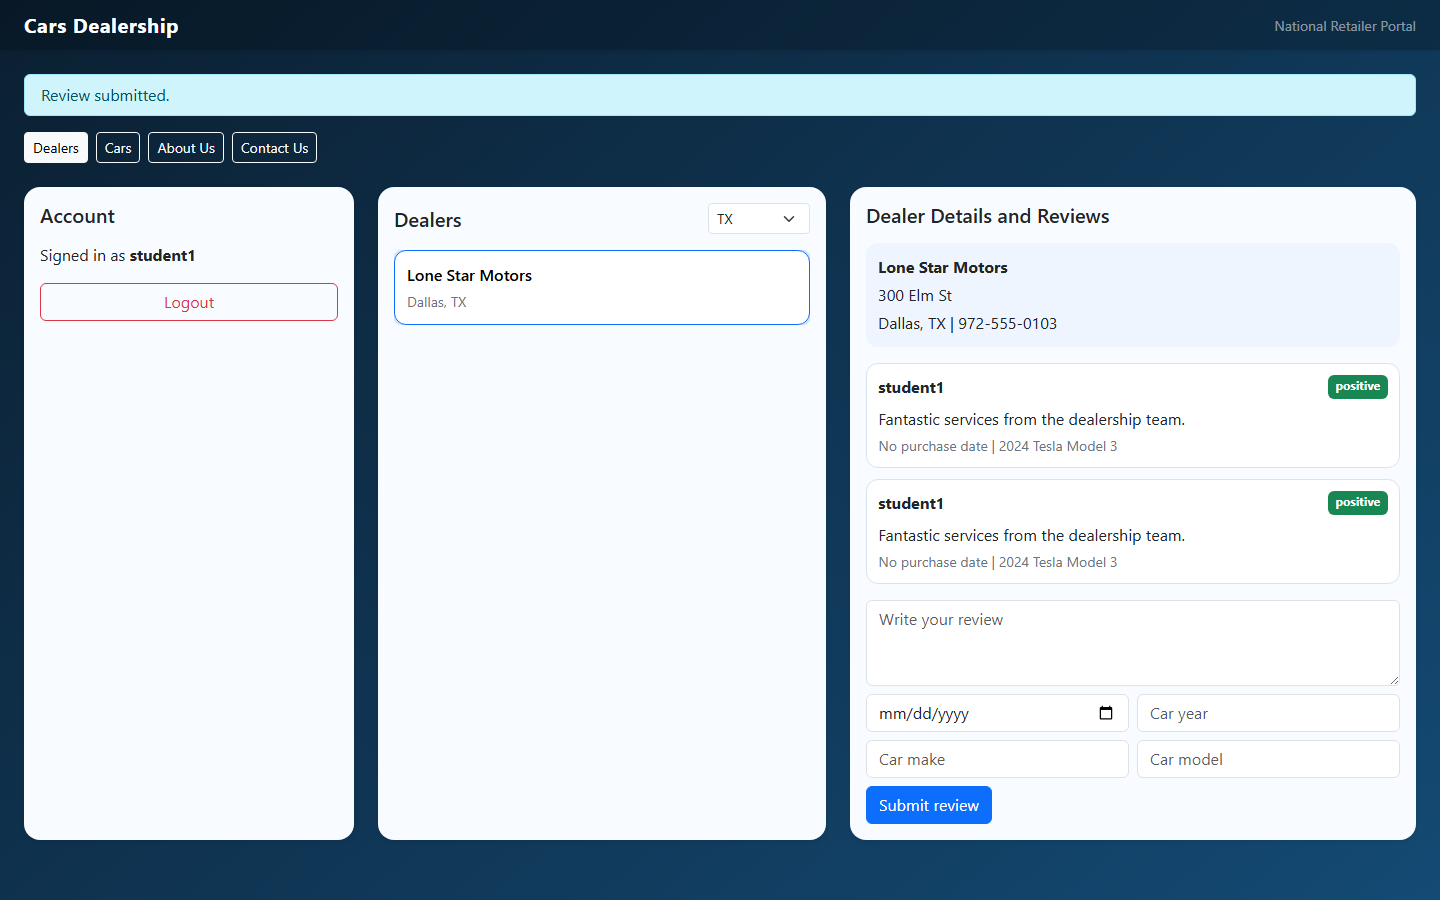
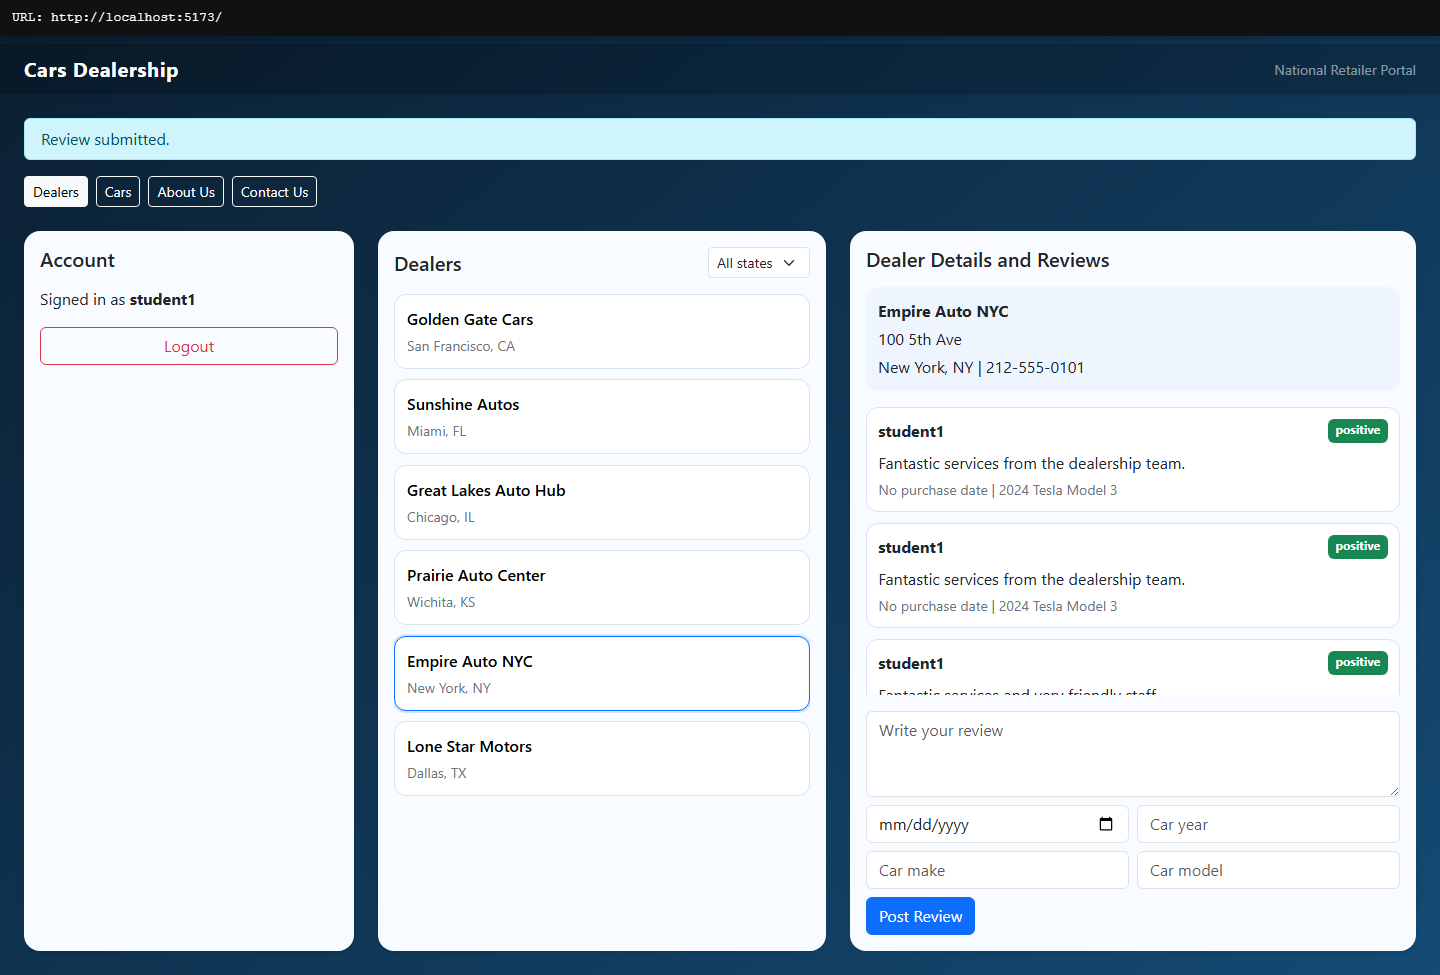
Add rubric-aligned screenshots and sentiment GET endpoint

diff --git a/scripts/capture_rubric_screenshots.js b/scripts/capture_rubric_screenshots.js
@@ -1,0 +1,248 @@
+const fs = require('fs');
+const { chromium } = require('playwright');
+
+function escapeHtml(text) {
+  return text
+    .replace(/&/g, '&amp;')
+    .replace(/</g, '&lt;')
+    .replace(/>/g, '&gt;');
+}
+
+async function addUrlOverlay(page) {
+  const url = page.url();
+  await page.evaluate((u) => {
+    let bar = document.getElementById('__url_overlay__');
+    if (!bar) {
+      bar = document.createElement('div');
+      bar.id = '__url_overlay__';
+      bar.style.position = 'fixed';
+      bar.style.top = '0';
+      bar.style.left = '0';
+      bar.style.right = '0';
+      bar.style.zIndex = '2147483647';
+      bar.style.background = '#111';
+      bar.style.color = '#fff';
+      bar.style.fontFamily = 'monospace';
+      bar.style.fontSize = '13px';
+      bar.style.padding = '8px 12px';
+      bar.style.boxShadow = '0 2px 8px rgba(0,0,0,0.3)';
+      document.body.appendChild(bar);
+      document.body.style.paddingTop = '44px';
+    }
+    bar.textContent = `URL: ${u}`;
+  }, url);
+}
+
+async function snap(page, name, withUrl = true) {
+  if (withUrl) {
+    await addUrlOverlay(page);
+  }
+  await page.screenshot({ path: name, fullPage: true });
+  console.log(`saved ${name}`);
+}
+
+async function loginApp(page) {
+  await page.goto('http://localhost:5173', { waitUntil: 'networkidle' });
+  const signedIn = await page.locator('text=Signed in as').count();
+  if (!signedIn) {
+    await page.fill('input[placeholder="Username"]', 'student1');
+    await page.fill('input[placeholder="Password"]', 'Password123!');
+    await page.locator('form button[type="submit"]').first().click();
+    await page.waitForTimeout(1000);
+  }
+}
+
+async function ensureDealerSelected(page, dealerText = 'Empire Auto NYC') {
+  const btn = page.locator('button.dealer-card', { hasText: dealerText }).first();
+  if (await btn.count()) {
+    await btn.click();
+  } else {
+    const first = page.locator('button.dealer-card').first();
+    if (await first.count()) {
+      await first.click();
+    }
+  }
+  await page.waitForTimeout(1200);
+}
+
+async function main() {
+  const browser = await chromium.launch({ headless: true });
+  const context = await browser.newContext({ viewport: { width: 1440, height: 900 } });
+
+  // Task 2: django_server.png from log text
+  const djangoText = fs.existsSync('django_server') ? fs.readFileSync('django_server', 'utf8') : 'django_server file not found';
+  const term = await context.newPage();
+  await term.setContent(`
+    <html><body style="margin:0;background:#111;color:#e6e6e6;font-family:Consolas,monospace;">
+      <div style="padding:16px;background:#1f1f1f;color:#9cdcfe;font-size:18px;">Django Server Running Output</div>
+      <pre style="white-space:pre-wrap;padding:16px;line-height:1.35;font-size:13px;">${escapeHtml(djangoText)}</pre>
+    </body></html>
+  `);
+  await snap(term, 'django_server.png', false);
+
+  // App screenshots
+  const app = await context.newPage();
+  await app.goto('http://localhost:5173', { waitUntil: 'networkidle' });
+
+  // Task 17: before login
+  await snap(app, 'get_dealers.png', true);
+
+  // Task 3: about_us
+  await app.click('button:has-text("About Us")');
+  await app.waitForTimeout(500);
+  await snap(app, 'about_us.png', true);
+
+  // Task 4: contact_us
+  await app.click('button:has-text("Contact Us")');
+  await app.waitForTimeout(500);
+  await snap(app, 'contact_us.png', true);
+
+  // Task 5: login page with logged user
+  await app.click('button:has-text("Dealers")');
+  await app.waitForTimeout(400);
+  await loginApp(app);
+  await snap(app, 'login.png', true);
+
+  // Task 18: logged in with Post Review visible
+  await ensureDealerSelected(app, 'Empire Auto NYC');
+  await snap(app, 'get_dealers_loggedin.png', true);
+
+  // Task 6: logout alert
+  const logoutButton = app.locator('button:has-text("Logout")').first();
+  if (await logoutButton.count()) {
+    await logoutButton.click();
+    await app.waitForTimeout(700);
+  }
+  await snap(app, 'logout.png', true);
+
+  // Task 7: sign-up page
+  await app.click('button:has-text("Register")');
+  await app.waitForTimeout(400);
+  await snap(app, 'sign-up.png', true);
+
+  // Login again for remaining dealer flow screenshots
+  await app.click('button:has-text("Login")');
+  await app.fill('input[placeholder="Username"]', 'student1');
+  await app.fill('input[placeholder="Password"]', 'Password123!');
+  await app.locator('form button[type="submit"]').first().click();
+  await app.waitForTimeout(900);
+
+  // Task 19: dealers by state
+  await app.selectOption('select.form-select', 'TX');
+  await app.waitForTimeout(900);
+  await snap(app, 'dealersbystate.png', true);
+
+  // Task 20: dealer details + reviews
+  await app.selectOption('select.form-select', '');
+  await app.waitForTimeout(800);
+  await ensureDealerSelected(app, 'Empire Auto NYC');
+  await snap(app, 'dealer_id_reviews.png', true);
+
+  // Task 21: review submission form filled, before submit
+  await app.fill('textarea[placeholder="Write your review"]', 'Fantastic services from the dealership team.');
+  await app.fill('input[placeholder="Car year"]', '2024');
+  await app.fill('input[placeholder="Car make"]', 'Tesla');
+  await app.fill('input[placeholder="Car model"]', 'Model 3');
+  await snap(app, 'dealership_review_submission.png', true);
+
+  // Task 22: after review added
+  await app.click('button:has-text("Post Review")');
+  await app.waitForTimeout(1400);
+  await snap(app, 'added_review.png', true);
+
+  // Endpoint screenshots for Express/Mongo and sentiment
+  const ep = await context.newPage();
+
+  await ep.goto('http://localhost:3001/dealers/1/reviews', { waitUntil: 'networkidle' });
+  await snap(ep, 'dealer_review.png', true);
+
+  await ep.goto('http://localhost:3001/dealers', { waitUntil: 'networkidle' });
+  await snap(ep, 'dealerships.png', true);
+
+  await ep.goto('http://localhost:3001/dealers/2', { waitUntil: 'networkidle' });
+  await snap(ep, 'dealer_details.png', true);
+
+  await ep.goto('http://localhost:3001/dealers?state=KS', { waitUntil: 'networkidle' });
+  await snap(ep, 'kansasDealers.png', true);
+
+  await ep.goto('http://localhost:3001/cars', { waitUntil: 'networkidle' });
+  await snap(ep, 'cars.png', true);
+
+  await ep.goto('http://localhost:3001/cars?make=Tesla', { waitUntil: 'networkidle' });
+  await snap(ep, 'car_models.png', true);
+
+  await ep.goto('http://localhost:5001/analyze?text=Fantastic%20services', { waitUntil: 'networkidle' });
+  await snap(ep, 'sentiment_analyzer.png', true);
+
+  // Admin login/logout screenshots
+  const admin = await context.newPage();
+  await admin.goto('http://localhost:8000/admin/login/?next=/admin/', { waitUntil: 'networkidle' });
+  await admin.fill('input[name="username"]', 'root');
+  await admin.fill('input[name="password"]', 'rootpass123');
+  await admin.click('input[type="submit"]');
+  await admin.waitForTimeout(1200);
+  await snap(admin, 'admin_login.png', true);
+
+  const logoutLink = admin.locator('a:has-text("Log out")');
+  if (await logoutLink.count()) {
+    await logoutLink.first().click();
+    await admin.waitForTimeout(900);
+  } else {
+    await admin.goto('http://localhost:8000/admin/logout/', { waitUntil: 'networkidle' });
+  }
+  await snap(admin, 'admin_logout.png', true);
+
+  // Task 23 CICD screenshot from GitHub Actions page (public)
+  const cicd = await context.newPage();
+  await cicd.goto('https://github.com/sittthawe/cars-dealership/actions', { waitUntil: 'domcontentloaded' });
+  await cicd.waitForTimeout(2000);
+  await snap(cicd, 'CICD.png', true);
+
+  // Deployed screenshots: use deployment URL if available, else localhost as fallback
+  let deployedBase = 'http://localhost:5173';
+  if (fs.existsSync('deploymentURL')) {
+    const text = fs.readFileSync('deploymentURL', 'utf8').trim();
+    const m = text.match(/https?:\/\/[^\s]+/i);
+    if (m) {
+      const candidate = m[0];
+      try {
+        const parsed = new URL(candidate);
+        if (!candidate.includes('<') && !candidate.includes('>')) {
+          deployedBase = parsed.toString();
+        }
+      } catch (_error) {
+        // Keep localhost fallback when deploymentURL contains placeholders/invalid URL.
+      }
+    }
+  }
+
+  const dep = await context.newPage();
+  await dep.goto(deployedBase, { waitUntil: 'networkidle' });
+  await snap(dep, 'deployed_landingpage.png', true);
+
+  const signedInDep = await dep.locator('text=Signed in as').count();
+  if (!signedInDep) {
+    await dep.fill('input[placeholder="Username"]', 'student1');
+    await dep.fill('input[placeholder="Password"]', 'Password123!');
+    await dep.locator('form button[type="submit"]').first().click();
+    await dep.waitForTimeout(1000);
+  }
+  await ensureDealerSelected(dep, 'Empire Auto NYC');
+  await snap(dep, 'deployed_loggedin.png', true);
+  await snap(dep, 'deployed_dealer_detail.png', true);
+
+  await dep.fill('textarea[placeholder="Write your review"]', 'Fantastic services from deployment flow.');
+  await dep.fill('input[placeholder="Car year"]', '2024');
+  await dep.fill('input[placeholder="Car make"]', 'Tesla');
+  await dep.fill('input[placeholder="Car model"]', 'Model 3');
+  await dep.click('button:has-text("Post Review")');
+  await dep.waitForTimeout(1200);
+  await snap(dep, 'deployed_add_review.png', true);
+
+  await browser.close();
+}
+
+main().catch((err) => {
+  console.error(err);
+  process.exit(1);
+});

diff --git a/frontend/react_app/src/App.jsx b/frontend/react_app/src/App.jsx
@@ -256,7 +256,7 @@ function DealersSection({
                       </div>
                     </div>
                     <button className="btn btn-primary" type="submit" disabled={busy}>
-                      Submit review
+                      Post Review
                     </button>
                   </form>
                 ) : (

diff --git a/backend/sentiment_service/app.py b/backend/sentiment_service/app.py
@@ -30,6 +30,13 @@ def health():
     return jsonify({'status': 'ok'})
 
 
+@app.get('/analyze')
+def analyze_get():
+    text = request.args.get('text', '')
+    sentiment = classify_sentiment(text)
+    return jsonify({'sentiment': sentiment, 'text': text})
+
+
 @app.post('/analyze')
 def analyze():
     payload = request.get_json(silent=True) or {}
